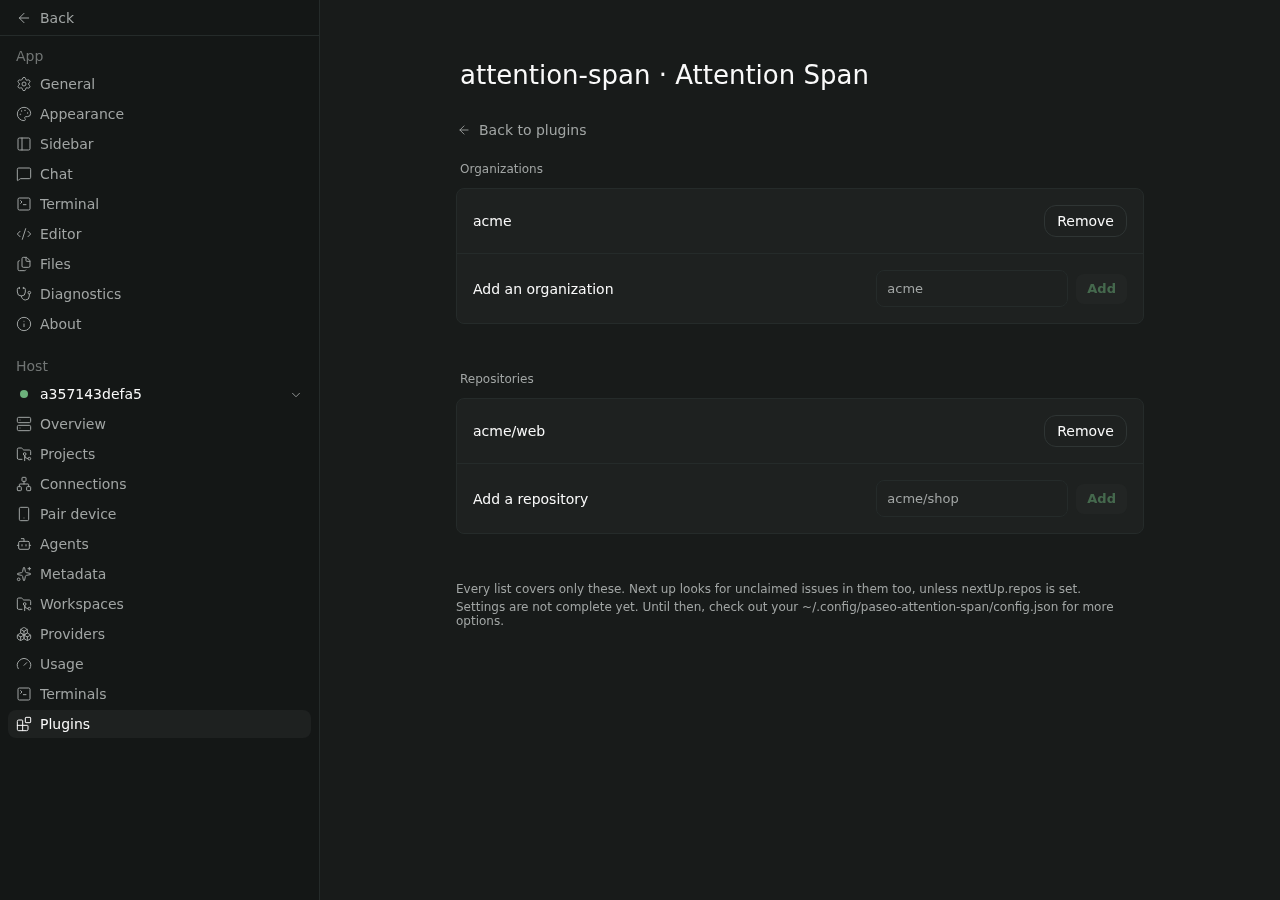
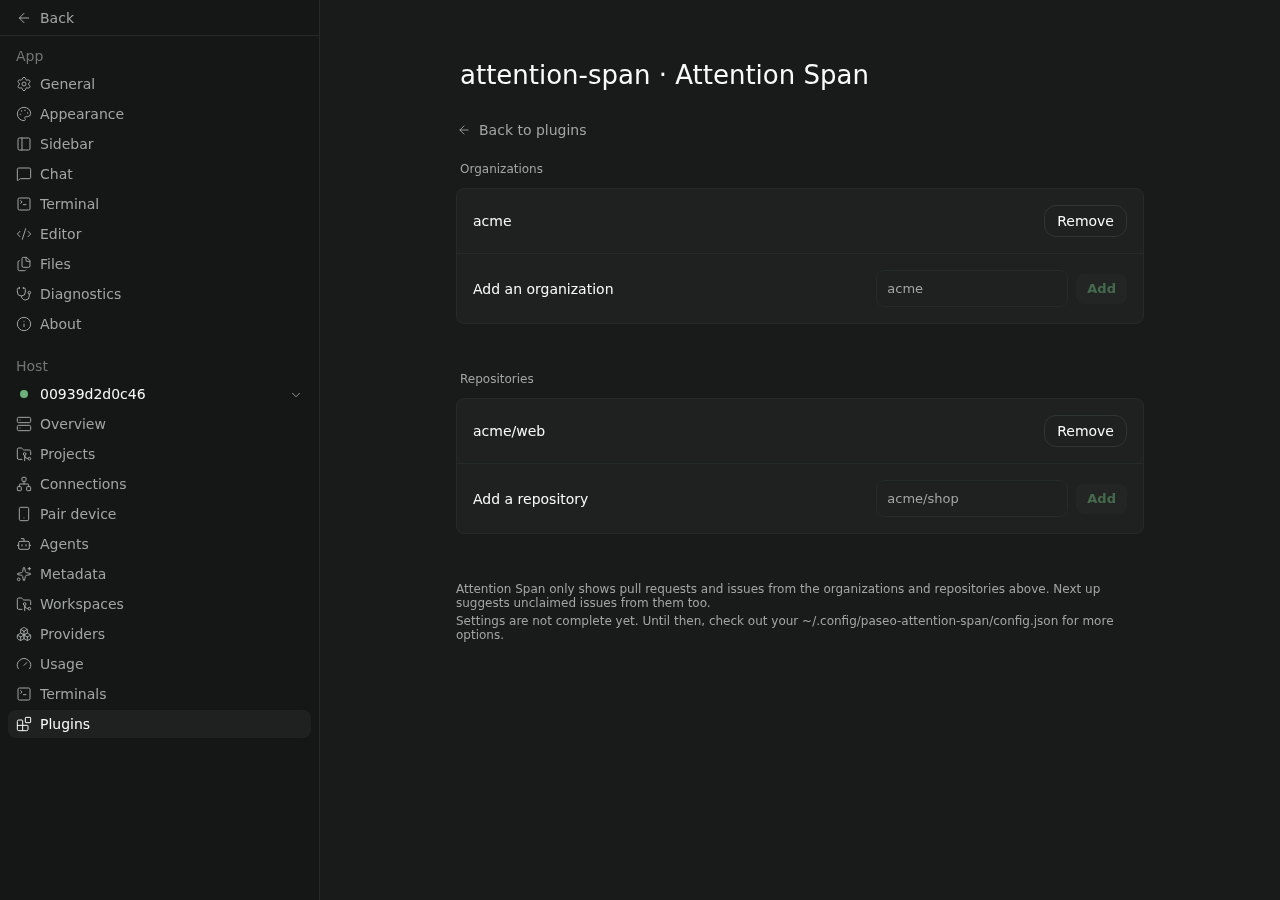
Say plainly what choosing orgs and repos does
"Every list covers only these" becomes: Attention Span only shows pull
requests and issues from the organizations and repositories above.

Changed region(s): [[0.3438, 0.6533, 0.875, 0.7156], [0.0312, 0.4356, 0.125, 0.4667]]

diff --git a/client/coverage-settings.tsx b/client/coverage-settings.tsx
@@ -84,8 +84,8 @@ function Coverage() {
         {error ? <Text style={styles.danger}>{error}</Text> : null}
         <Text style={styles.muted}>
           {orgs.length || repos.length
-            ? "Every list covers only these. Next up looks for unclaimed issues in them too, unless nextUp.repos is set."
-            : "Covering everything on GitHub that involves you. Next up looks for unclaimed issues in your Paseo projects' repos."}
+            ? "Attention Span only shows pull requests and issues from the organizations and repositories above. Next up suggests unclaimed issues from them too."
+            : "With none chosen, Attention Span shows everything on GitHub that involves you, and Next up suggests issues from your Paseo projects' repositories."}
         </Text>
         {/* Until more moves here, point to the file for the rest. */}
         <Text style={styles.muted}>Settings are not complete yet. Until then, check out your ~/.config/paseo-attention-span/config.json for more options.</Text>
